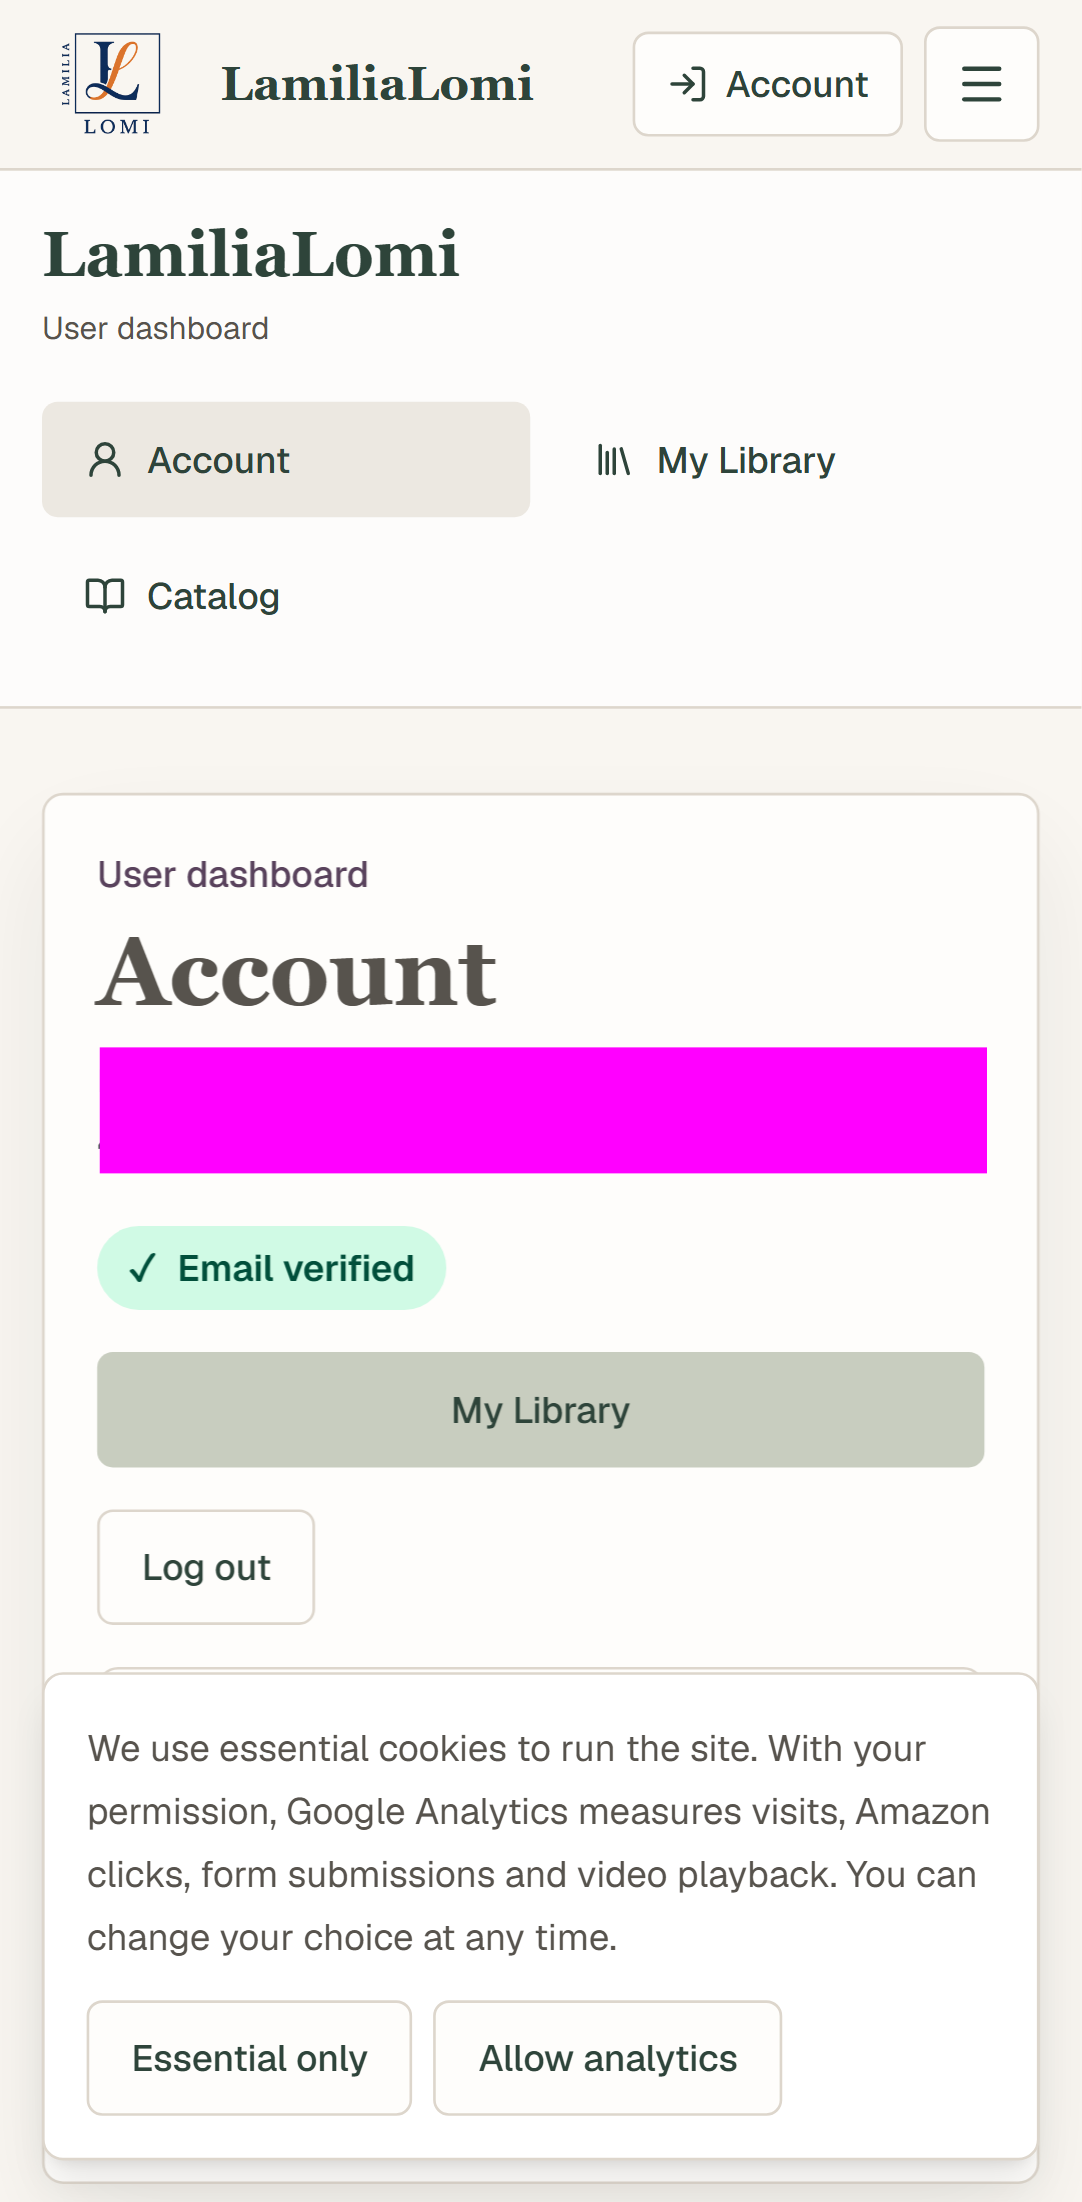
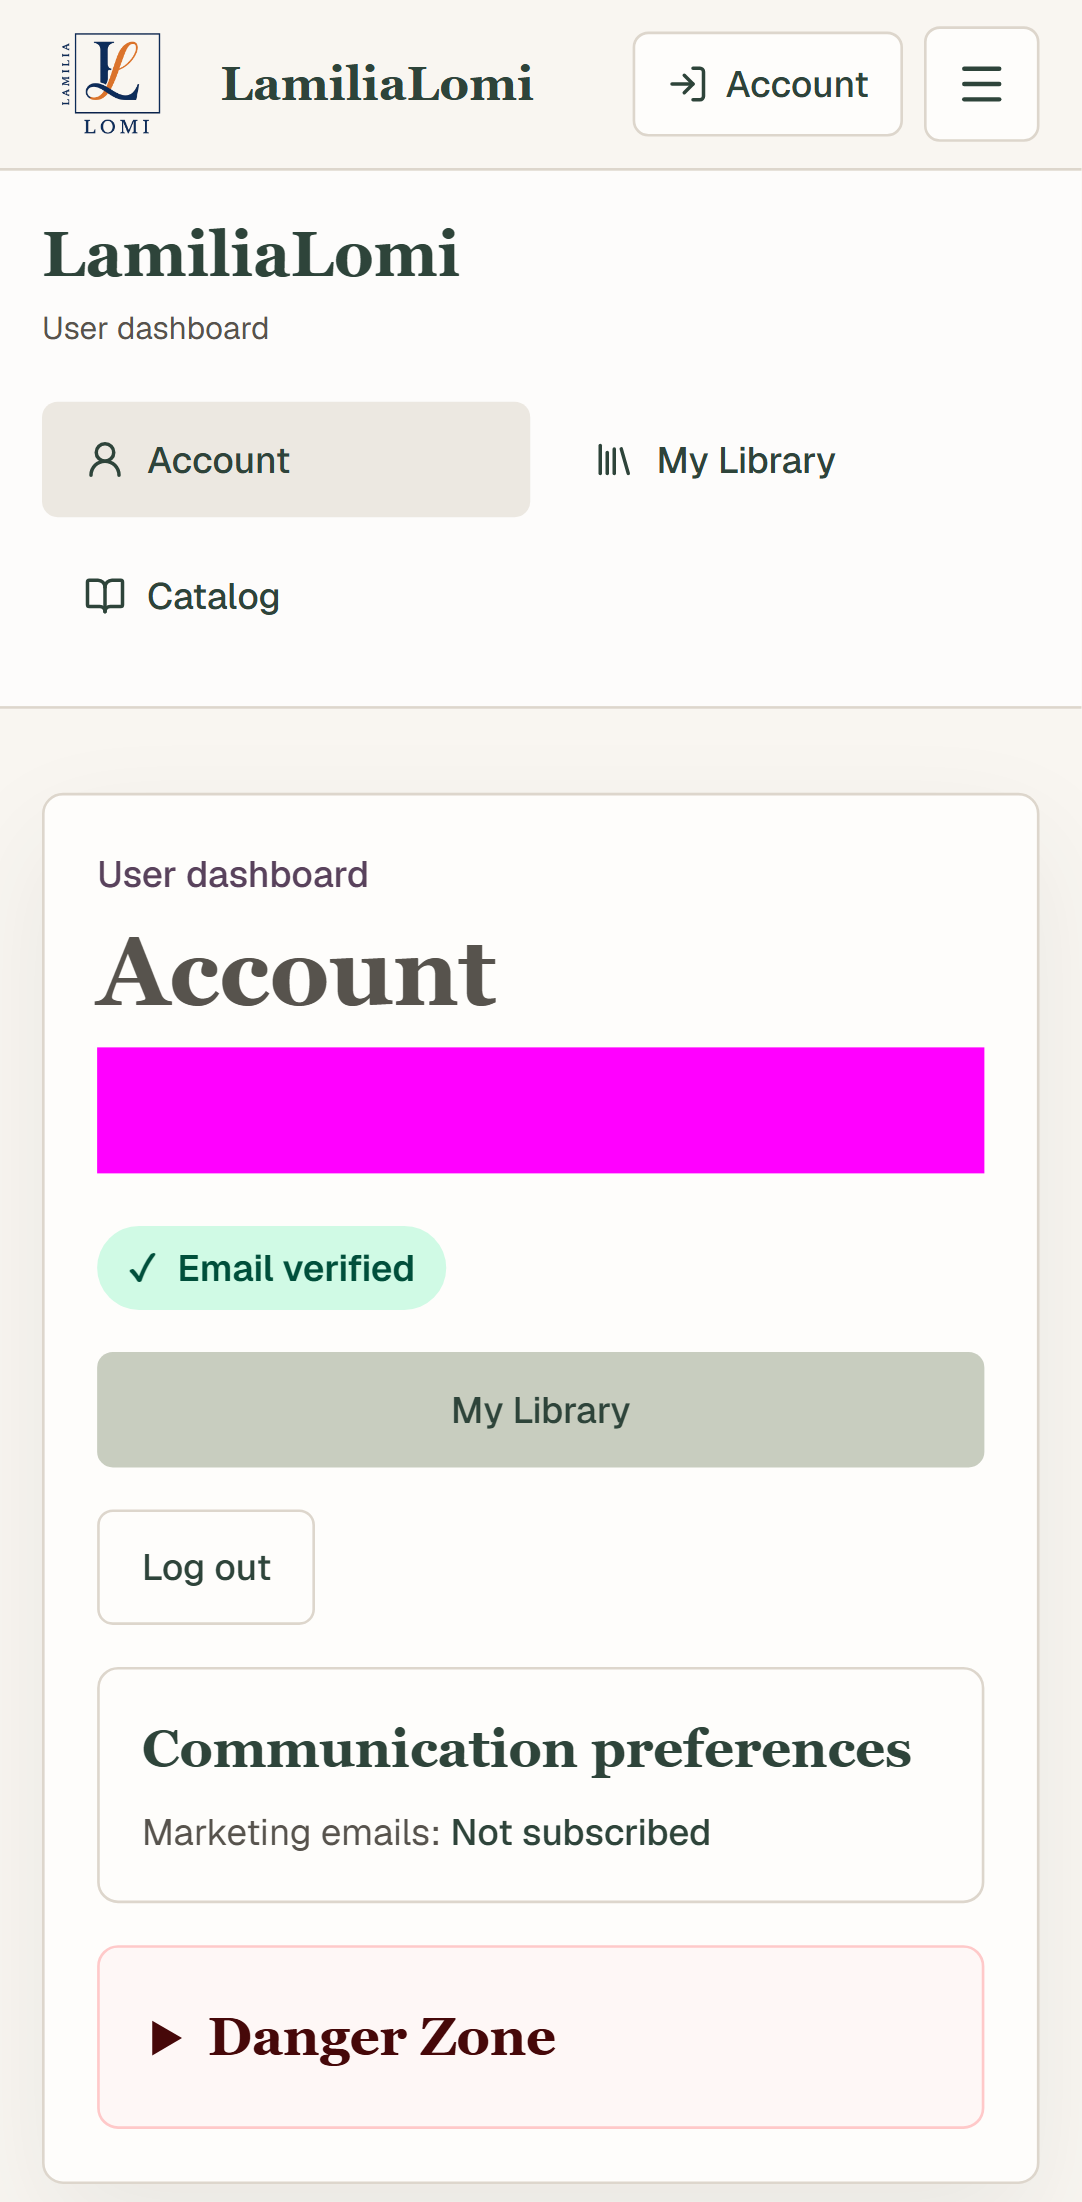
Capture the signed-in account without the consent overlay

Changed region(s): [[0.061, 0.772, 0.915, 0.9882]]

diff --git a/tests/e2e/password-recovery.spec.ts b/tests/e2e/password-recovery.spec.ts
@@ -166,6 +166,8 @@ test("resets a password through the real local email and rejects a reused link",
     const recoveredAccountEmail = accountTab.getByText(email, { exact: true });
     await expect(recoveredAccountEmail).toBeVisible();
     await expect(accountTab.getByRole("button", { name: "Log out", exact: true })).toBeVisible();
+    if (crossBrowser) await accountTab.getByRole("button", { name: "Essential only" }).click();
+    await expect(accountTab.getByRole("button", { name: "Essential only" })).toHaveCount(0);
     await accountTab.screenshot({
       path: testInfo.outputPath("password-changed.png"), caret: "initial", style: "nextjs-portal { display: none }",
       mask: [recoveredAccountEmail],
